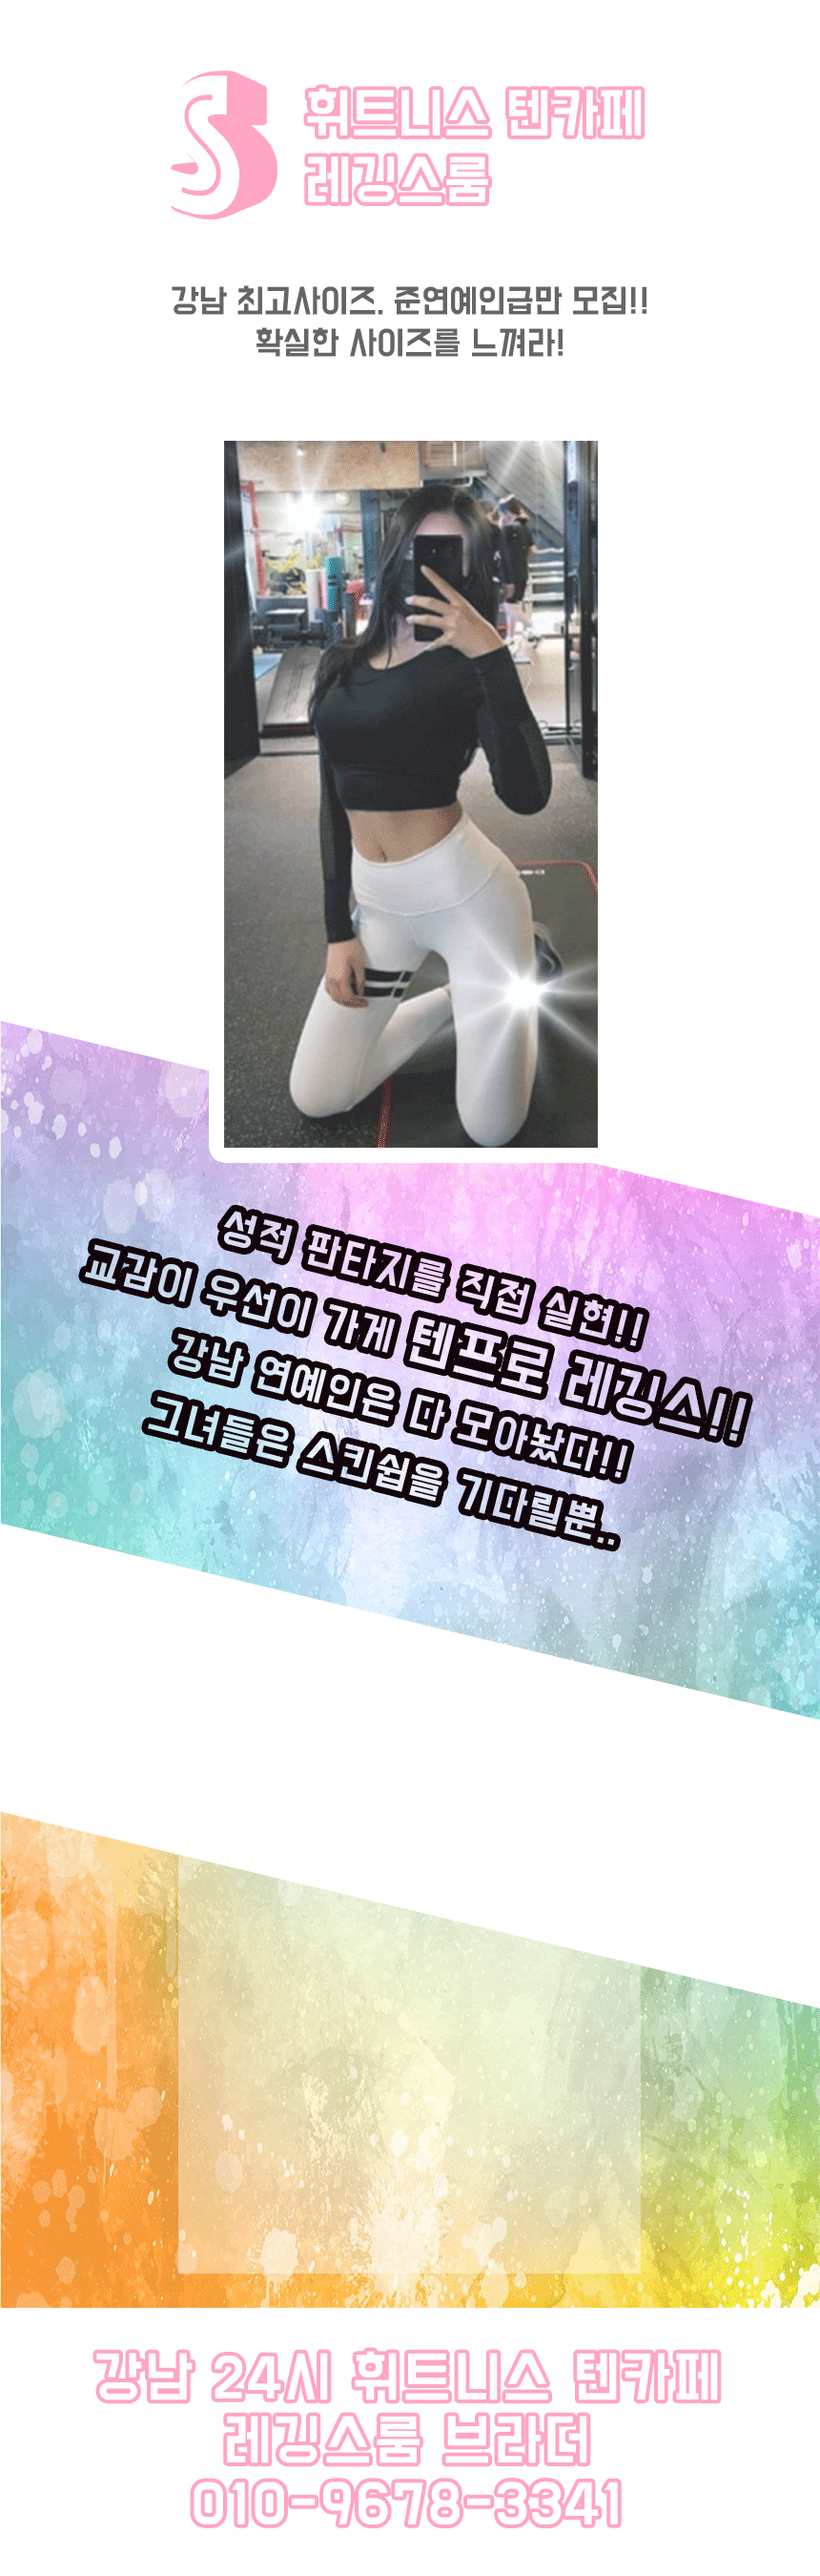
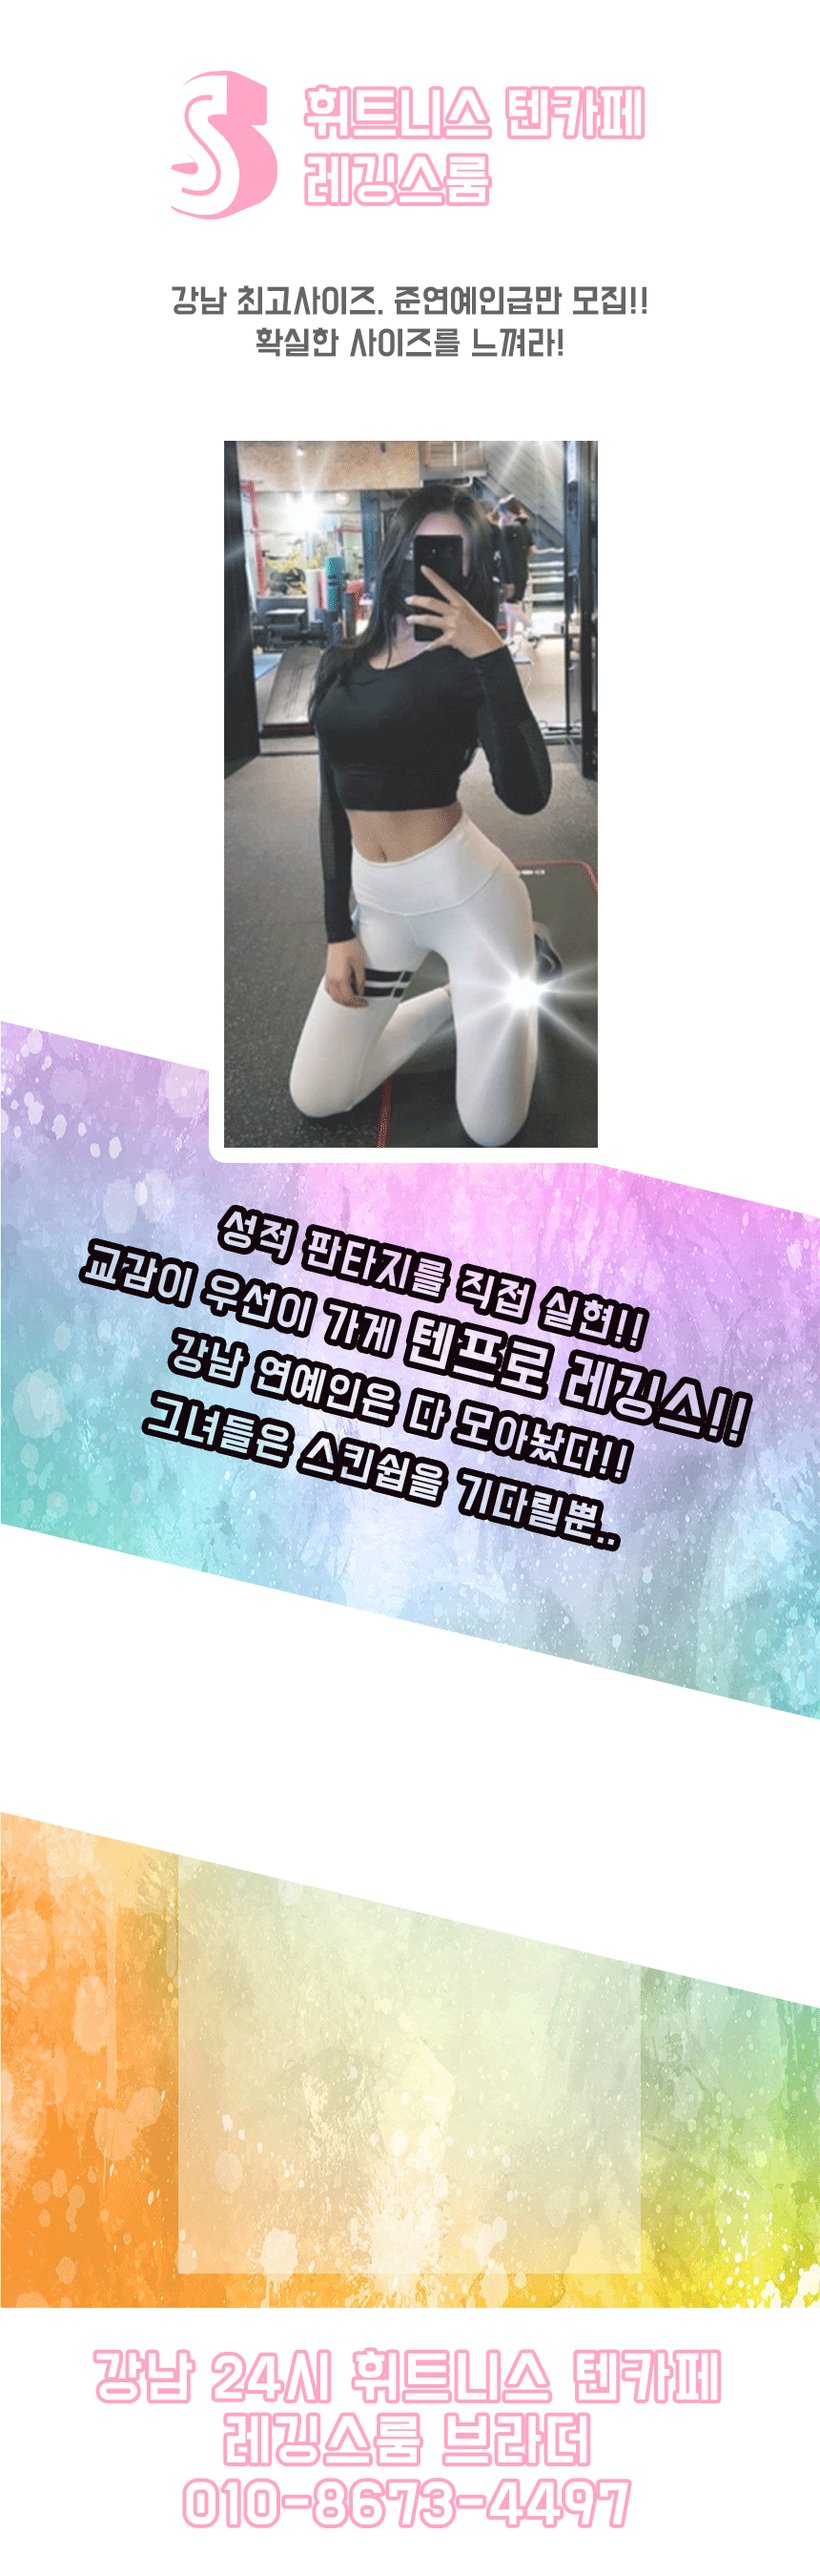
Add files via upload

diff --git a/index.html b/index.html
@@ -11,7 +11,7 @@
   </head>
   <body oncontextmenu="return false" onselectstart="return false" ondragstart="return false">
     <header>
-      <a href="tel:010-6422-0626">
+      <a href="tel:010-8673-4497">
         <div class="white">
           <img src="https://darkadimg.cafe24.com/kangstar/night.gif">
           <h1>
@@ -28,7 +28,7 @@
       </ul>
     </nav>
     <div class="watch">
-      <a href="tel:010-6422-0626">
+      <a href="tel:010-8673-4497">
         <img src="images/watch.png">
       </a>
     </div>

diff --git a/pages/leggings.html b/pages/leggings.html
@@ -39,7 +39,7 @@
     </main>
 
     <div class="fixedTopCallButton">
-      <a href="tel:010-9678-3341">
+      <a href="tel:010-8673-4497">
         <i class="fas fa-phone-volume"></i> 통화연결
       </a>
     </div>

diff --git a/pages/shirt.html b/pages/shirt.html
@@ -37,7 +37,7 @@
     </main>
 
     <div class="fixedTopCallButton">
-      <a href="tel:010-8673-4497">
+      <a href="tel:010-4864-2206">
         <i class="fas fa-phone-volume"></i> 통화연결
       </a>
     </div>
